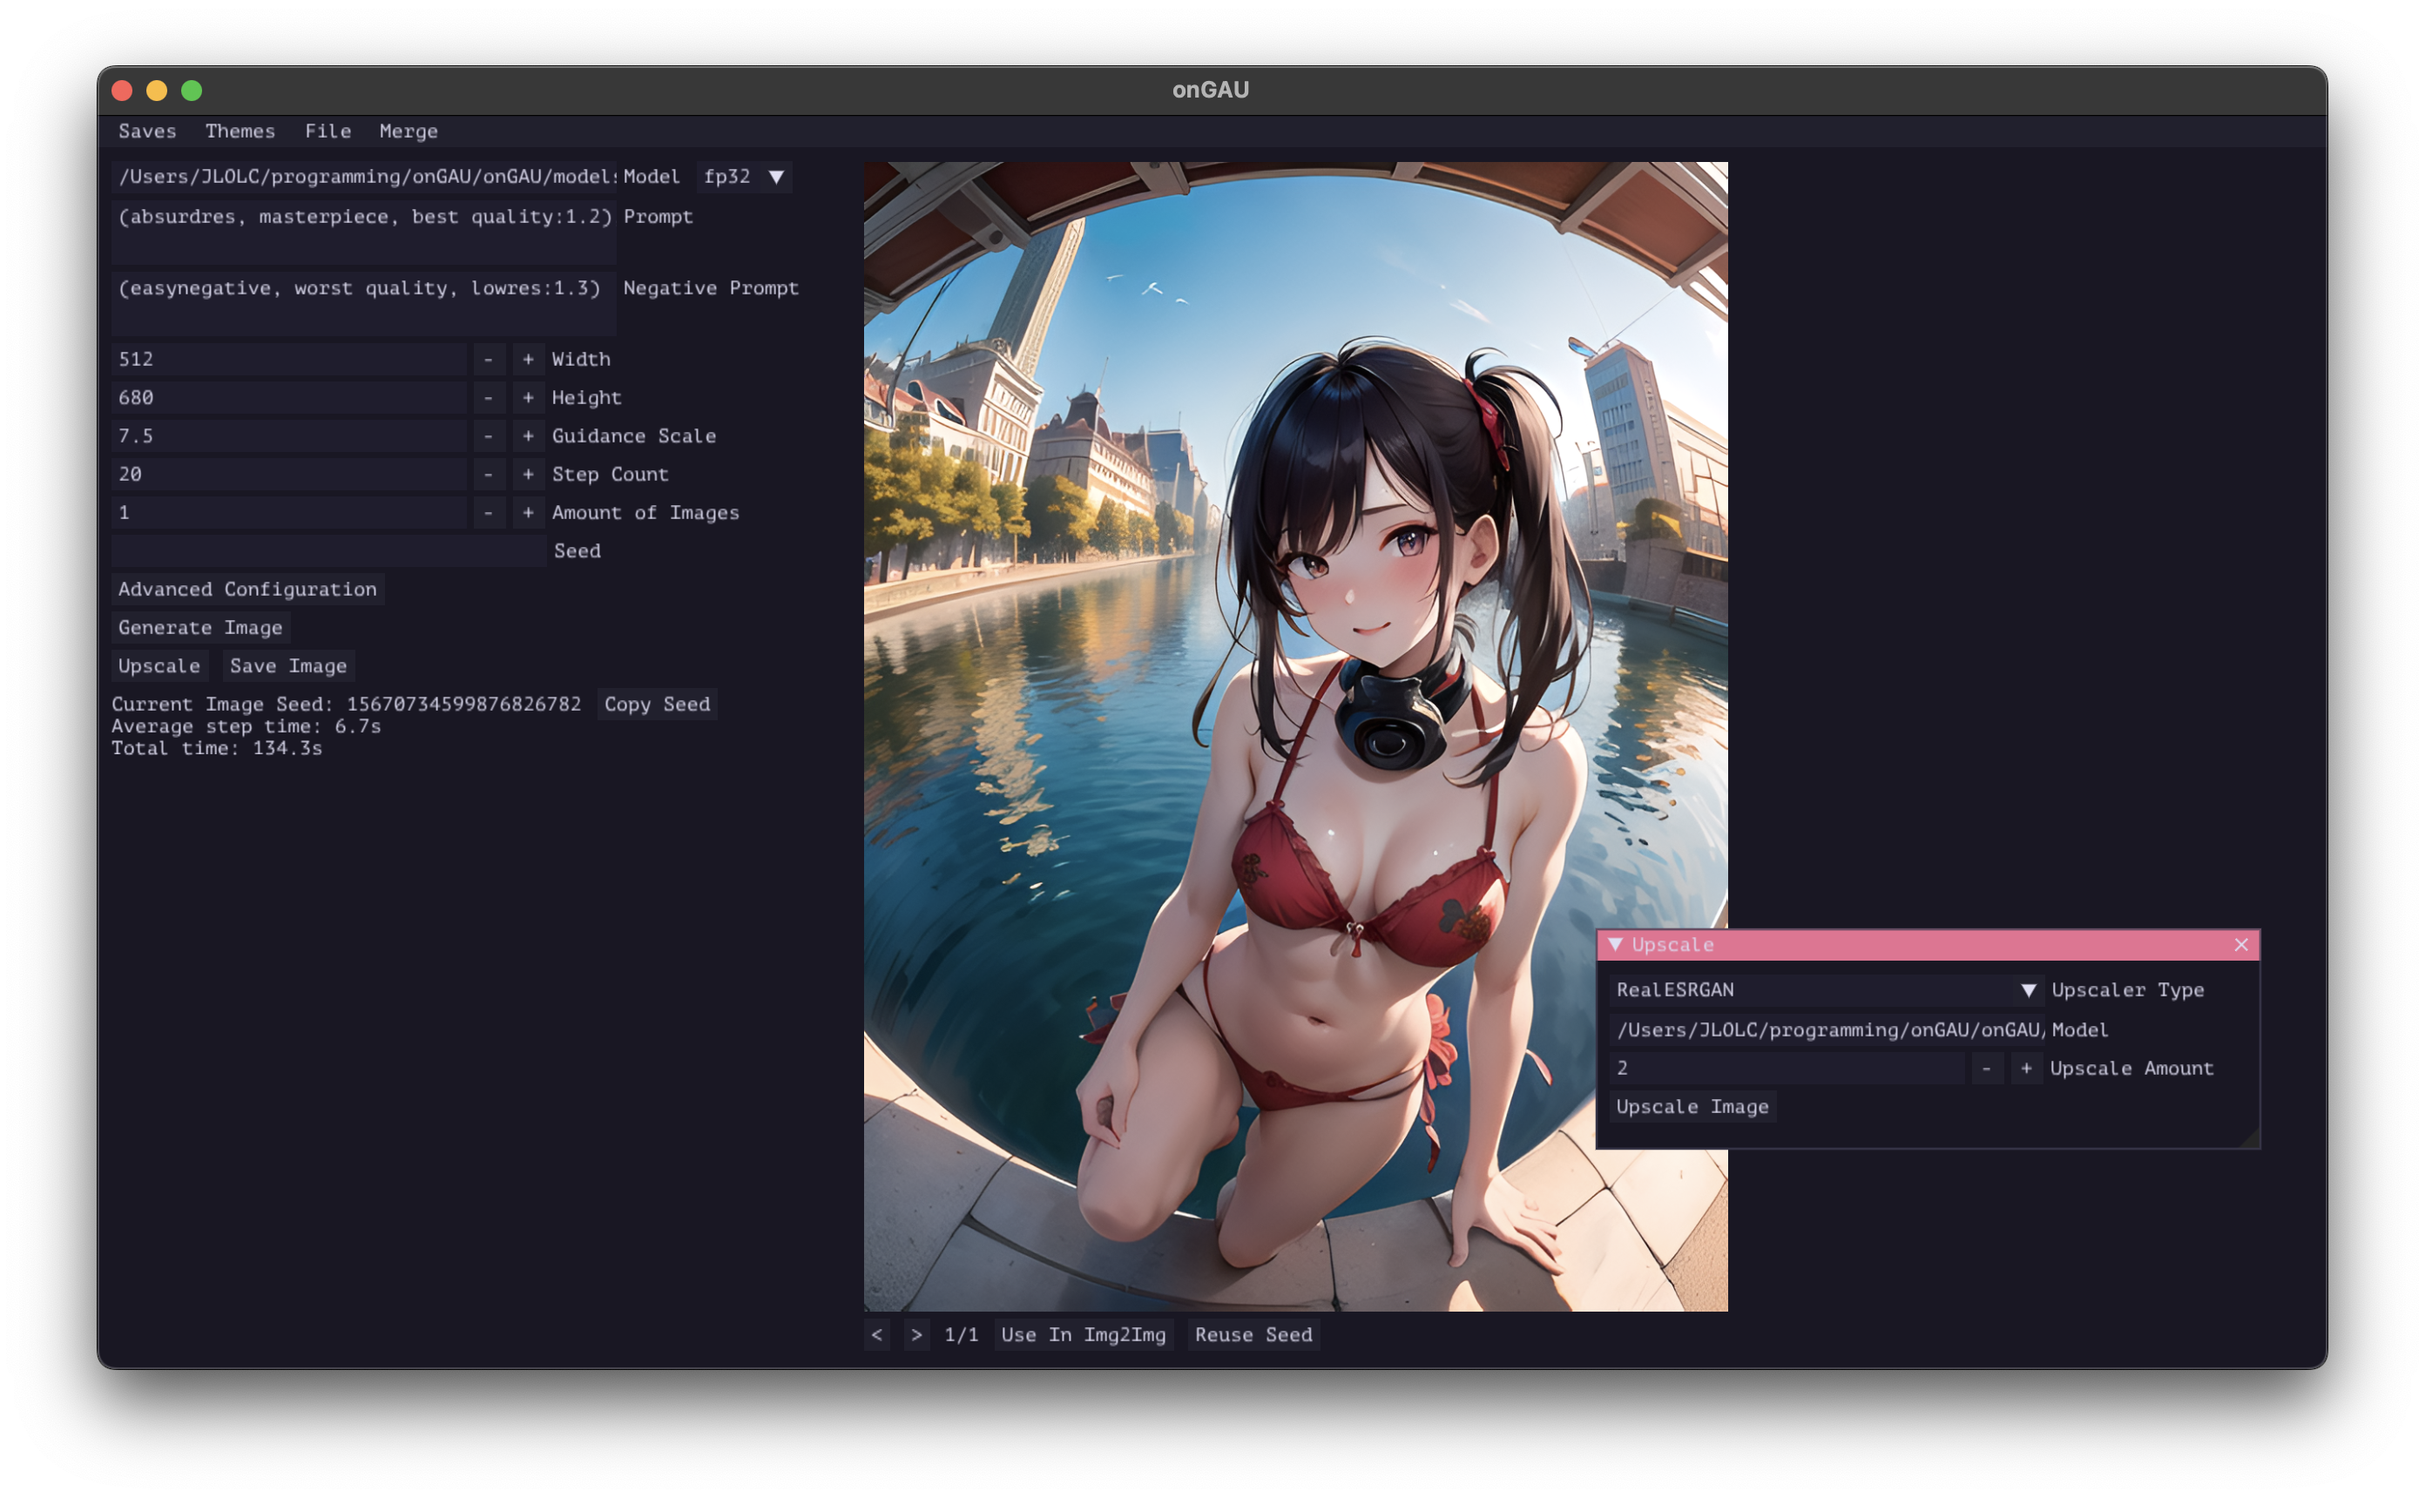
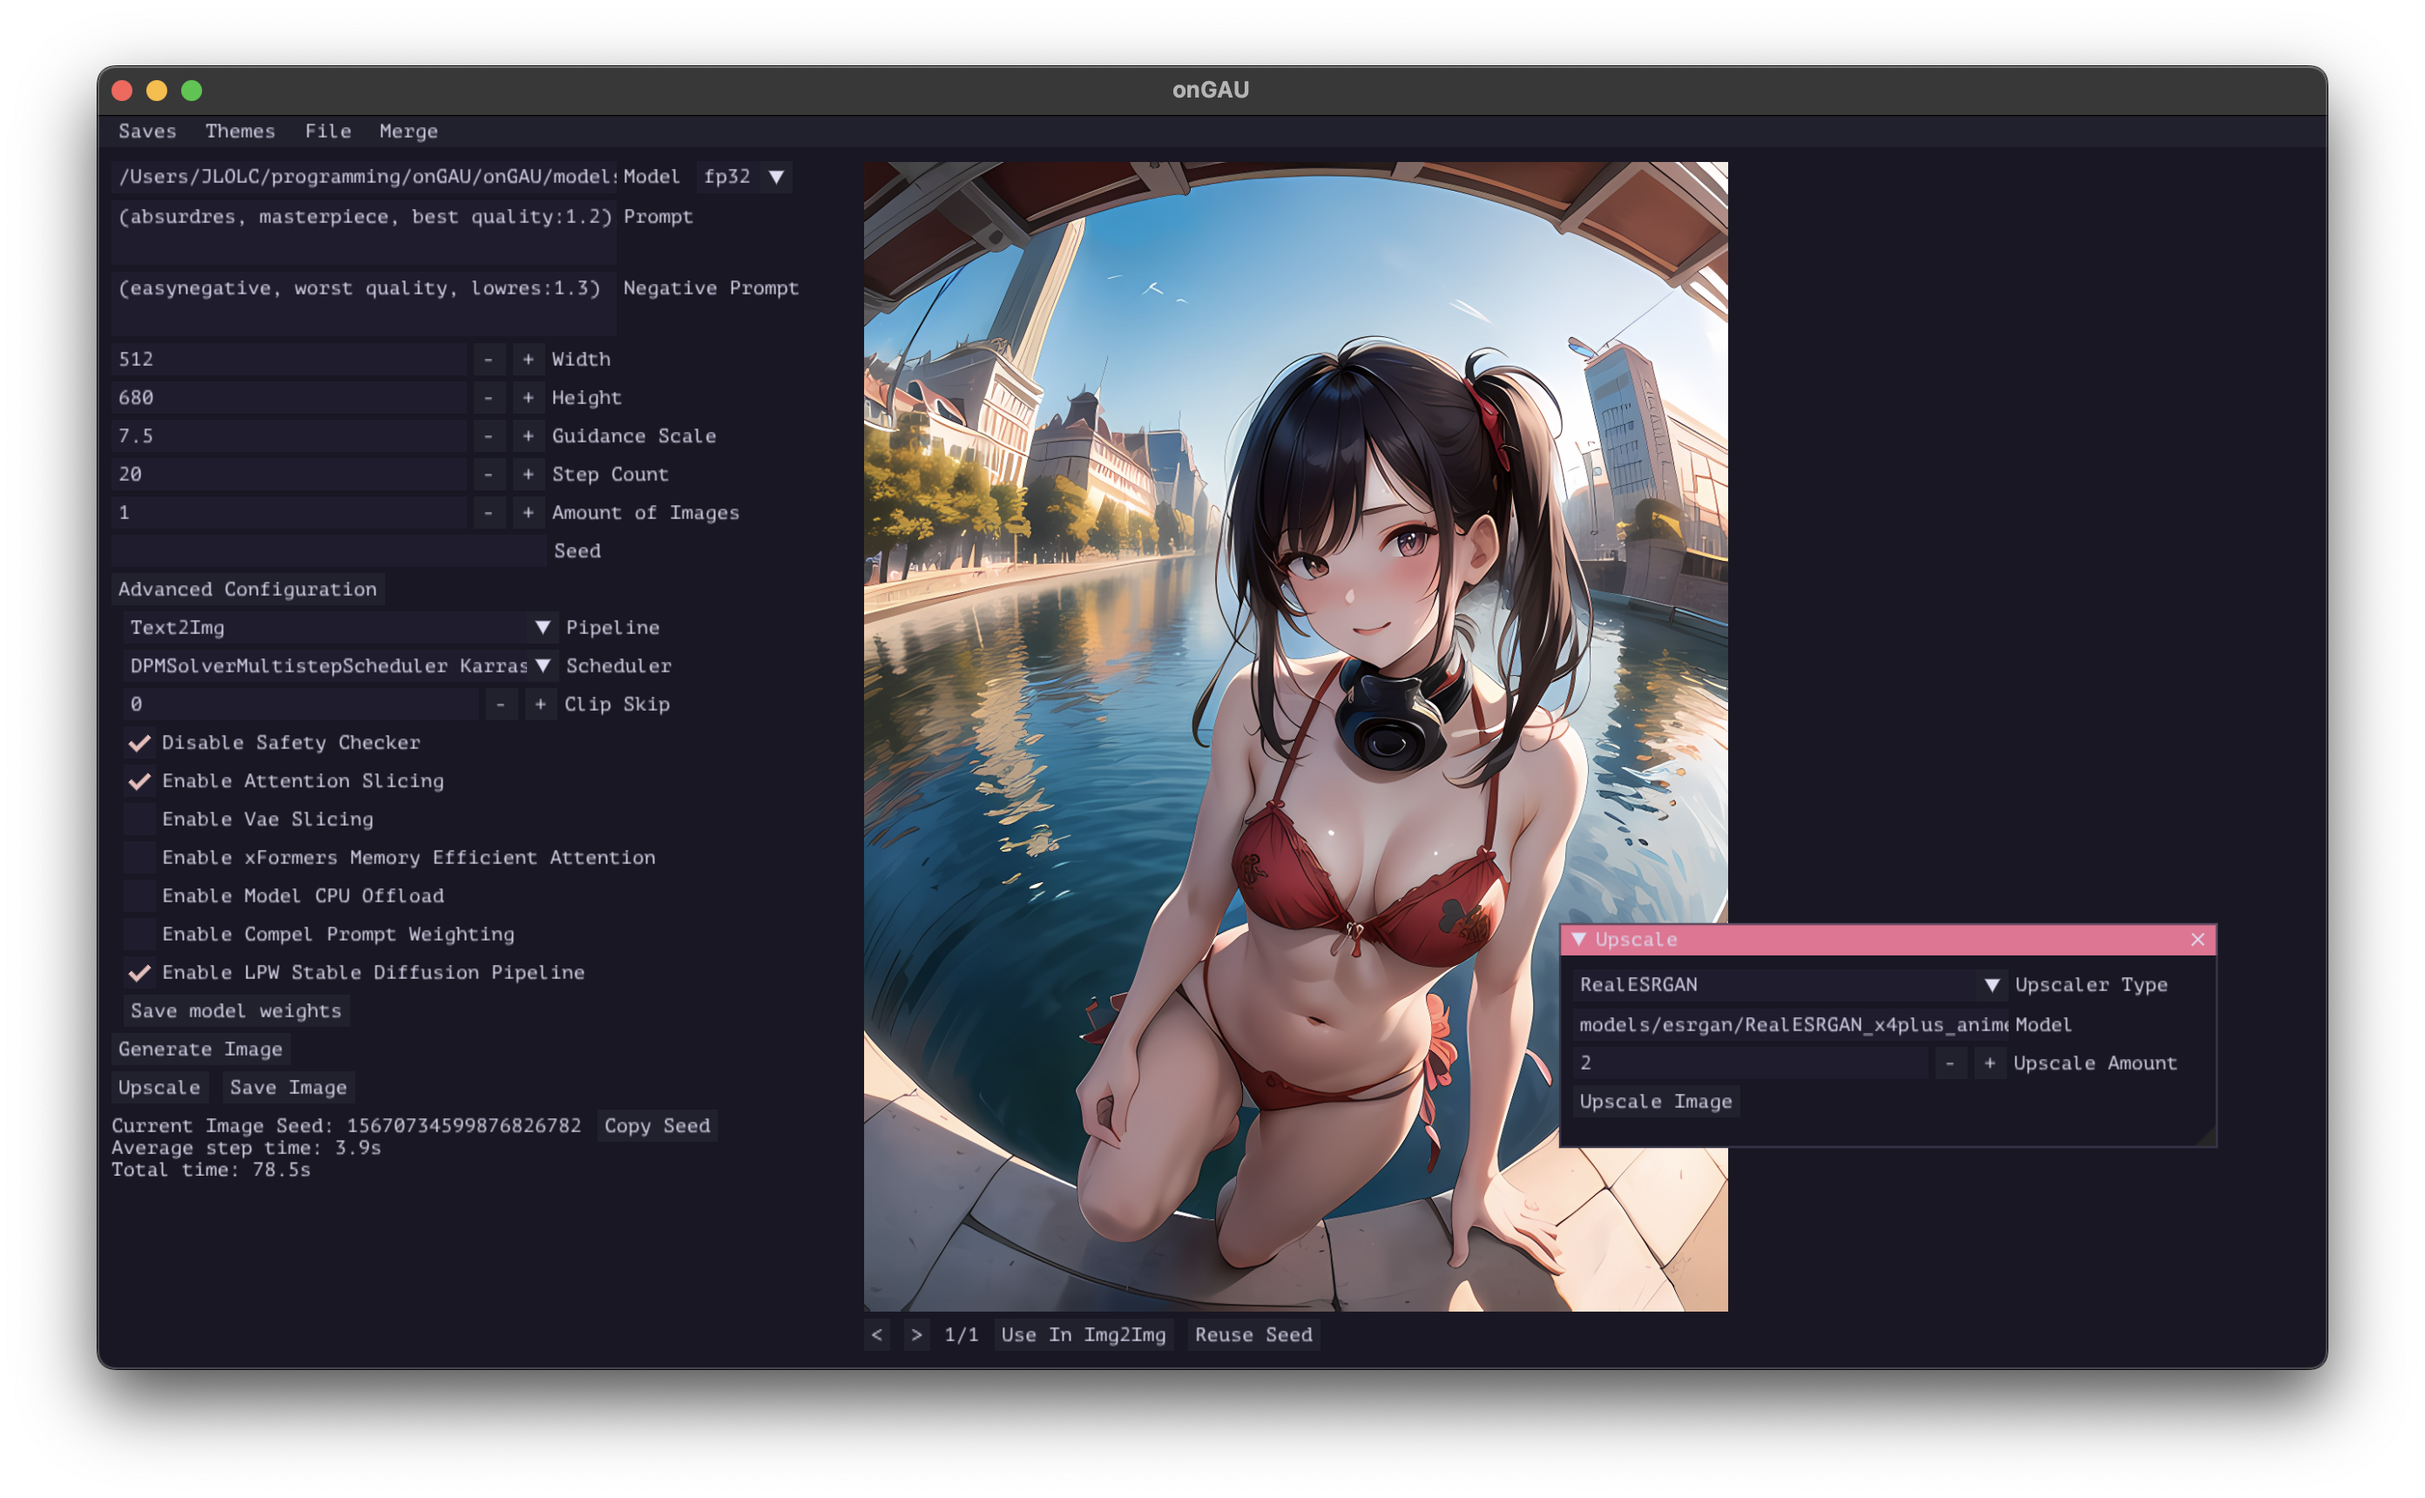
add open save folder + update interface image

diff --git a/onGAU/callbacks.py b/onGAU/callbacks.py
@@ -2,11 +2,12 @@ from imagen import Text2Img, SDImg2Img, GeneratedImage
 from settings_manager import SettingsManager
 from texture_manager import TextureManager
 from theme_manager import ThemeManager
-import logger, config, pipelines
+import logger, config, pipelines, utils
 
 from PIL import Image, UnidentifiedImageError
 import dearpygui.dearpygui as dpg
-import utils
+import subprocess
+import platform
 import torch
 import time
 import os
@@ -840,3 +841,18 @@ def precision_callback(_, precision: str):
     logger.info(f"Loading {precision}...")
     imagen.set_precision(precision)
     logger.success(f"Loaded {precision}!")
+
+
+def open_save_folder():
+    """Callback to open save folder in file explorer."""
+    path = os.path.abspath(os.path.dirname(config.SAVE_FILE_PATTERN))
+
+    match platform.system():
+        case "Windows":
+            subprocess.Popen(["explorer", path])
+
+        case "Darwin":
+            subprocess.Popen(["open", "-R", path])
+
+        case "Linux":
+            subprocess.Popen(["xdg-open", path])

diff --git a/onGAU/main.py b/onGAU/main.py
@@ -147,6 +147,10 @@ with dpg.window(tag="window"):
                 label="Load Settings from Image",
                 callback=lambda: toggle_item("image_load_dialog"),
             )
+            dpg.add_menu_item(
+                label="Open Save Folder",
+                callback=open_save_folder,
+            )
 
         dpg.add_menu_item(
             label="Merge",

diff --git a/scripts/esrgan.py b/scripts/esrgan.py
@@ -14,7 +14,10 @@ def dict_to_PngInfo(info: dict):
     pnginfo = PngInfo()
 
     for key in info:
-        pnginfo.add_text(key, info[key])
+        try:
+            pnginfo.add_text(key, info[key])
+        except Exception as e:
+            print(f'WARNING: Error when adding png metadata: "{key}": {e}')
 
     return pnginfo
 
